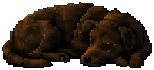
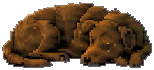
Every Room 2 piece gets the lift, and the dog proves why
Tyler: will new Room 2 outdoor pieces get this change, because the dog was
super super dark. Yes -- and he had already found the bug. The dog was cut
BEFORE the lift, so he sat at the plate's original darkness while the mud
around him went to 63: a hole in the street.

Sprite mode added -- flat ground gamma, alpha preserved, no far-plane row
mask, which is meaningless on a seventy-pixel subject who is entirely ground.

THEN THE FRINGE, which taught the order of operations. Lifting a
despilled sprite amplifies whatever magenta the despill left, into a visible
purple ring. Neither step was wrong; the ORDER was. Now: cut, erode one pixel
to a soft rim, LIFT, then DESPILL. Worst residual magenta 6, dog median luma
55 against the ground's 63 -- a dark dog on lighter mud.

art/backgrounds/room-02-main-street.png is now the shipping plate: stitched,
graded to Room 1, lifted with the far plane spared. reference/room-02 keeps
every stage before it.

Doc 38 carries the law: anything composited over a lifted plate is lifted
with it, by the same numbers, or it does not belong there.

diff --git a/tools/grade/lift-shadows.py b/tools/grade/lift-shadows.py
@@ -26,16 +26,28 @@ import sys
 import numpy as np
 from PIL import Image
 
-src, gamma, out = sys.argv[1], float(sys.argv[2]), sys.argv[3]
-ground_gamma = float(sys.argv[4]) if len(sys.argv) > 4 else gamma
+# SPRITES TAKE THE GROUND GAMMA, FLAT, AND KEEP THEIR ALPHA. A row-based far
+# plane mask is meaningless on a 70-pixel dog: he is entirely ground. Cut
+# before the lift he sat at the plate's ORIGINAL darkness while the mud around
+# him went to 63 -- a hole in the street. Anything composited over a lifted
+# plate is lifted with it, by the same numbers, or it does not belong there.
+SPRITE = '--sprite' in sys.argv
+argv = [x for x in sys.argv if x != '--sprite']
+src, gamma, out = argv[1], float(argv[2]), argv[3]
+ground_gamma = float(argv[4]) if len(argv) > 4 else gamma
 GROUND_TOP, GROUND_FEATHER = 570.0, 90.0
-a = np.array(Image.open(src).convert('RGB')).astype(float)
+raw = Image.open(src)
+alpha = np.array(raw.convert('RGBA'))[..., 3] if SPRITE else None
+a = np.array(raw.convert('RGB')).astype(float)
 l = 0.2126 * a[..., 0] + 0.7152 * a[..., 1] + 0.0722 * a[..., 2]
 H0 = a.shape[0]
 # Per-row gamma: the ruled one up top, the ground one below, feathered across
 # the line where the buildings meet the mud so no band shows.
-mix = np.clip((np.arange(H0) - GROUND_TOP) / GROUND_FEATHER, 0, 1)[:, None]
-gam_row = gamma * (1 - mix) + ground_gamma * mix
+if SPRITE:
+    gam_row = np.full((H0, 1), ground_gamma)
+else:
+    mix = np.clip((np.arange(H0) - GROUND_TOP) / GROUND_FEATHER, 0, 1)[:, None]
+    gam_row = gamma * (1 - mix) + ground_gamma * mix
 lifted = 255.0 * np.power(np.clip(l, 0, 255) / 255.0, gam_row)
 gain = np.clip(np.where(l > 1e-3, lifted / np.maximum(l, 1e-3), 1.0), 1.0, 4.0)
 # NO CHANNEL MAY OVERFLOW. The first version clipped 22% of the frame at
@@ -66,10 +78,13 @@ gain = np.minimum(gain, headroom)
 FAR_KEEP, FAR_TOP, FAR_BOTTOM = 0.06, 300.0, 470.0
 H = a.shape[0]
 row = np.clip((np.arange(H) - FAR_TOP) / (FAR_BOTTOM - FAR_TOP), 0, 1)
-mask = FAR_KEEP + (1 - FAR_KEEP) * row
+mask = np.ones(H) if SPRITE else FAR_KEEP + (1 - FAR_KEEP) * row
 gain = (1.0 + (gain - 1.0) * mask[:, None])[..., None]
 res = np.clip(a * gain, 0, 255)
-Image.fromarray(res.astype(np.uint8)).save(out)
+if SPRITE:
+    Image.fromarray(np.dstack([res, alpha]).astype(np.uint8)).save(out)
+else:
+    Image.fromarray(res.astype(np.uint8)).save(out)
 gl = 0.2126 * res[..., 0] + 0.7152 * res[..., 1] + 0.0722 * res[..., 2]
 print(f'gamma {gamma}: mean {l.mean():.1f} -> {gl.mean():.1f}, '
       f'ground median {np.median(l[600:]):.1f} -> {np.median(gl[600:]):.1f}, '

diff --git a/docs/38-character-pipeline.md b/docs/38-character-pipeline.md
@@ -633,3 +633,30 @@ The script was edited through a dozen fragile string-replacement passes. By the 
 **Edit this file by reading it, not by pattern-matching into it.** Two separate string replacements also failed silently on mismatched anchors earlier in the same session and were reported as successful.
 
 The fifteen rounds were: two style failures, three hem-detection failures, one leg-split failure, one knee experiment, one direction error, and two preview-encoding failures. **Every one of them is closed by a rule above.**
+
+---
+
+## THE ORDER OF OPERATIONS FOR ANYTHING CUT FROM A KEY (Room 2, ruled by a fringe)
+
+**Lift first. Despill last. Every time.**
+
+The dog was keyed, despilled, then lifted with the plate — and the lift
+multiplied the residual magenta the despill had left behind, into a visible
+purple fringe all round him. Nothing was wrong with either step; the ORDER
+was wrong. A despill only holds if nothing amplifies the picture afterwards.
+
+The full order for a sprite that will sit on a graded, lifted plate:
+
+1. **Cut** on the key colour.
+2. **Erode one pixel** — the outermost ring is half key by construction; it
+   becomes a soft rim at alpha 170 rather than a hard contaminated edge.
+3. **Lift** to the plate's GROUND gamma, flat. The far-plane row mask is
+   meaningless on a seventy-pixel subject: he is entirely ground.
+4. **Despill.**
+
+Result: worst residual magenta 6, dog median luma 55 against ground 63 — a
+dark dog on lighter mud, which is what a dark dog on mud looks like.
+
+**And the general law: anything composited over a lifted plate is lifted with
+it, by the same numbers, or it does not belong there.** A sprite cut before a
+grade sits at the old darkness and reads as a hole in the picture.
